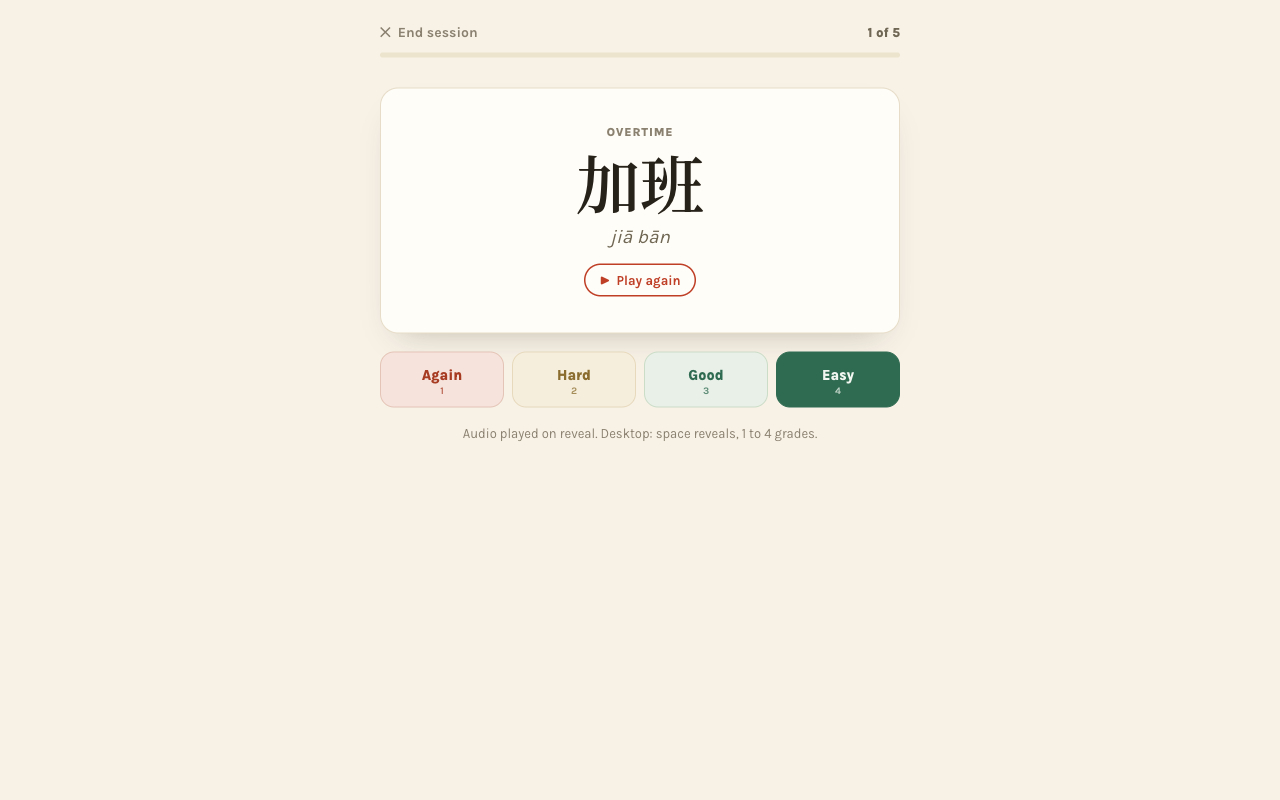
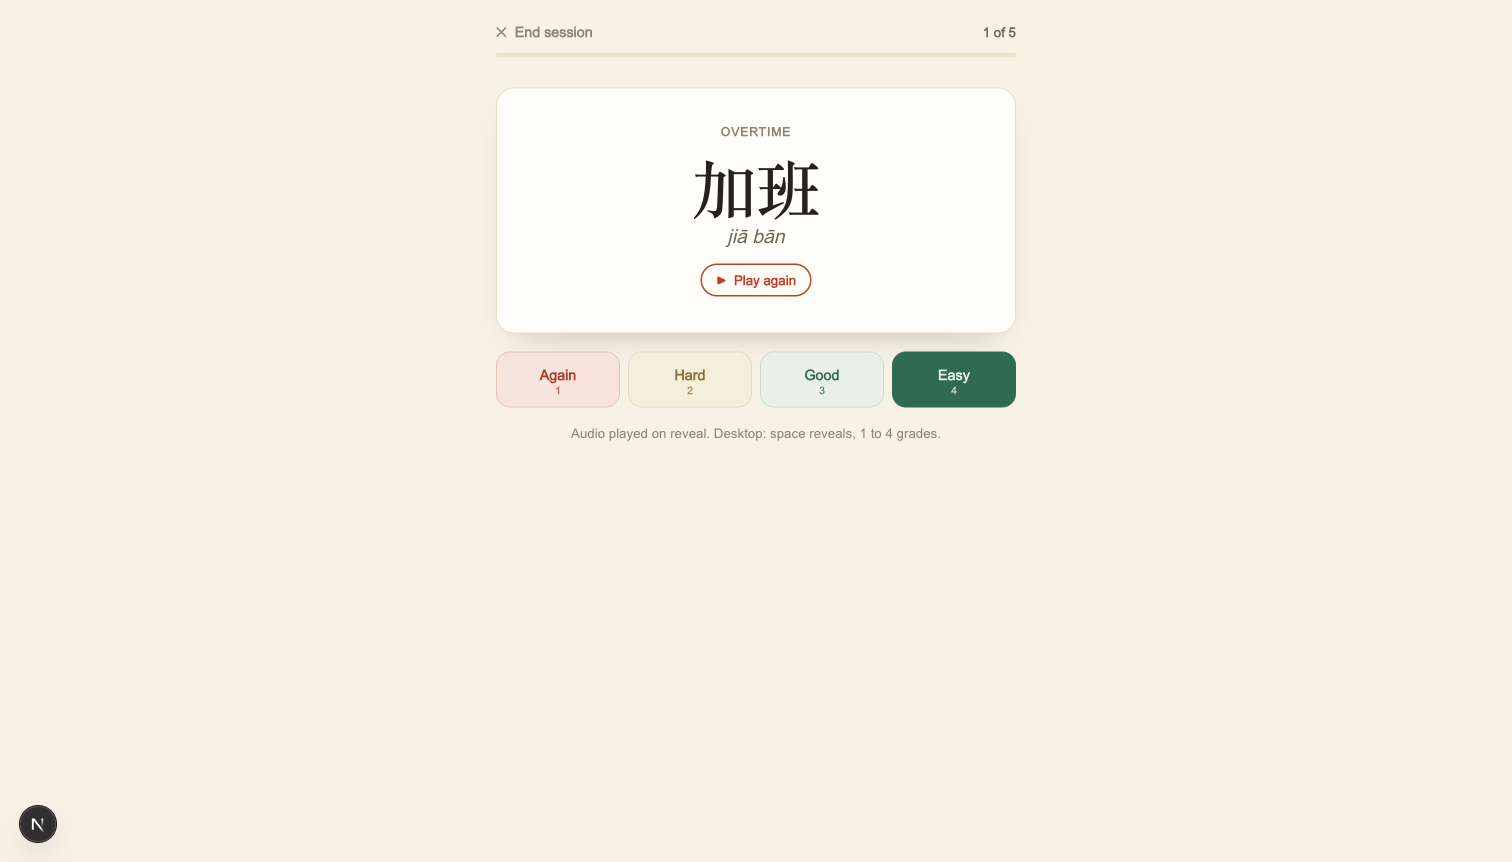
feat(web): personalized identity on today and chat; profile extraction in gemma mode; live demo link; fresh screenshots

diff --git a/apps/server/src/tutor.ts b/apps/server/src/tutor.ts
@@ -205,25 +205,34 @@ async function buildSystem(learnerId: bigint): Promise<string> {
 
 // Gemma ignores inline tools once the full persona is loaded (0/4 in live
 // tests with nudges top and bottom; short prompts hit 2/2). So gemma mode
-// captures vocab FunctionGemma-style: a tiny post-reply extraction call with
-// a short prompt, fired after the reply is already sent (zero user latency).
+// captures vocab AND profile facts FunctionGemma-style: a tiny post-reply
+// extraction call with a short prompt, fired after the reply is already
+// sent (zero user latency).
 async function gemmaExtractWords(learnerId: bigint, userText: string, reply: string) {
   try {
+    const learner = await prisma.learner.findUnique({ where: { id: learnerId } });
+    const profile = learner?.profileMd || PROFILE_TEMPLATE;
     const resp = await gemmaChat({
       model: GEMMA_MODEL,
       messages: [
         {
           role: "system",
           content:
-            "You extract vocabulary from a Mandarin tutoring exchange. If the tutor taught or translated any specific Mandarin word, call save_word for each one (max 2, pinyin with tone marks). If no word was taught, reply with just: none",
+            "You extract data from one Mandarin tutoring exchange. Two jobs:\n" +
+            "1. If the tutor taught or translated a specific Mandarin word, call save_word for each (max 2, pinyin with tone marks).\n" +
+            "2. If the LEARNER revealed facts about themselves (name, age, location, occupation, hobbies, interests, people or pets, native language, why they are learning, their level), call update_profile ONCE with the COMPLETE updated markdown: take the CURRENT PROFILE below and fill or amend only the fields the learner just revealed, keeping everything else exactly as is.\n" +
+            "If neither applies, reply with just: none\n\n" +
+            `CURRENT PROFILE:\n${profile}`,
         },
         { role: "user", content: `Learner: ${userText}\nTutor: ${reply}` },
       ],
-      tools: TOOLS.filter((t) => t.function.name === "save_word"),
-      max_tokens: 200,
+      tools: TOOLS.filter((t) => t.function.name === "save_word" || t.function.name === "update_profile"),
+      max_tokens: 900,
     } as ChatParams);
     for (const tc of resp.choices[0].message.tool_calls ?? []) {
-      if (tc.function.name === "save_word") await runTool(learnerId, "save_word", tc.function.arguments);
+      if (tc.function.name === "save_word" || tc.function.name === "update_profile") {
+        await runTool(learnerId, tc.function.name, tc.function.arguments);
+      }
     }
   } catch (e) {
     console.error("[gemma-extract]", e);

diff --git a/apps/web/app/today/page.tsx b/apps/web/app/today/page.tsx
@@ -11,6 +11,10 @@ type Me = {
   dueCount: number;
   totalWords: number;
   latest: { word: string; pinyin: string; gloss: string }[];
+  profile?: {
+    name: string | null; why: string | null; hobbies: string | null;
+    interests: string | null; occupation: string | null; location: string | null; level: string | null;
+  };
 };
 
 const GREETINGS: Array<[number, string, string]> = [
@@ -57,10 +61,32 @@ export default function Today() {
     <div className="shell">
       <Nav streak={me.streak} words={me.totalWords} />
 
-      <div className="rise" style={{ display: "flex", alignItems: "baseline", gap: 14, margin: "14px 0 22px", flexWrap: "wrap" }}>
-        <span className="zh" style={{ fontSize: 30 }}>{zhGreet}</span>
+      <div className="rise" style={{ display: "flex", alignItems: "baseline", gap: 14, margin: "14px 0 10px", flexWrap: "wrap" }}>
+        <span className="zh" style={{ fontSize: 30 }}>{zhGreet}{me.profile?.name ? `，${me.profile.name}` : ""}</span>
         <span style={{ fontSize: 16 }} className="muted">{enGreet}. {dateLine}.</span>
       </div>
+
+      {(() => {
+        const p = me.profile;
+        const world = [p?.location, p?.occupation, p?.hobbies, p?.interests].filter(Boolean).join(" · ");
+        if (p?.why)
+          return (
+            <div className="rise r1" style={{ display: "flex", alignItems: "baseline", gap: 12, margin: "0 0 22px", flexWrap: "wrap" }}>
+              <span className="kicker red" style={{ marginBottom: 0 }}>Your why</span>
+              <span className="serif" style={{ fontSize: 20, fontStyle: "italic", color: "var(--body)" }}>{p.why}</span>
+              {p.level && <span className="pill">{p.level}</span>}
+            </div>
+          );
+        if (world)
+          return (
+            <div className="rise r1" style={{ display: "flex", alignItems: "baseline", gap: 12, margin: "0 0 22px", flexWrap: "wrap" }}>
+              <span className="kicker red" style={{ marginBottom: 0 }}>Your world</span>
+              <span className="serif" style={{ fontSize: 19, fontStyle: "italic", color: "var(--body)" }}>{world}</span>
+              {p?.level && <span className="pill">{p.level}</span>}
+            </div>
+          );
+        return <div style={{ marginBottom: 12 }} />;
+      })()}
 
       <div className="stat-grid cascade">
         {me.dueCount > 0 ? (

diff --git a/apps/web/app/chat/page.tsx b/apps/web/app/chat/page.tsx
@@ -63,9 +63,13 @@ export default function Chat() {
   const [busy, setBusy] = useState(false);
   const [wall, setWall] = useState<string | null>(null);
   const [unauthed, setUnauthed] = useState(false);
+  const [who, setWho] = useState<{ why: string | null; level: string | null; name: string | null; hobbies?: string | null; interests?: string | null; location?: string | null } | null>(null);
   const endRef = useRef<HTMLDivElement>(null);
 
   useEffect(() => {
+    apiGet<{ profile?: { why: string | null; level: string | null; name: string | null; hobbies?: string | null; interests?: string | null; location?: string | null } }>("/api/me")
+      .then((d) => d.profile && setWho(d.profile))
+      .catch(() => {});
     apiGet<{ messages: Msg[] }>("/api/chat/history")
       .then((d) =>
         setMsgs(
@@ -113,6 +117,17 @@ export default function Chat() {
   return (
     <div className="shell narrow" style={{ display: "flex", flexDirection: "column", minHeight: "100dvh", paddingBottom: 90 }}>
       <Nav />
+      {(() => {
+        const line = who?.why ?? [who?.location, who?.hobbies, who?.interests].filter(Boolean).join(" · ");
+        if (!line) return null;
+        return (
+          <div className="rise" style={{ display: "flex", alignItems: "center", gap: 10, padding: "2px 0 12px", flexWrap: "wrap" }}>
+            <span className="zh" style={{ fontSize: 15, color: "var(--red)" }}>{who?.why ? "为什么" : "你的世界"}</span>
+            <span style={{ fontSize: 13, fontStyle: "italic" }} className="muted">{line}</span>
+            {who?.level && <span className="pill" style={{ fontSize: 11, padding: "3px 10px" }}>{who.level}</span>}
+          </div>
+        );
+      })()}
       <div style={{ flex: 1, display: "flex", flexDirection: "column", gap: 10, paddingBottom: 14 }}>
         {msgs.length === 0 && (
           <div className="card pop" style={{ textAlign: "center", padding: "32px 26px", margin: "24px auto 0", maxWidth: 420, display: "flex", flexDirection: "column", gap: 14, alignItems: "center" }}>

diff --git a/apps/server/src/api.ts b/apps/server/src/api.ts
@@ -149,6 +149,29 @@ api.get("/api/link/status", h(async (req, res) => {
   res.json({ linked: false });
 }));
 
+/** Pull the human bits out of profileMd so the UI can show who this is for. */
+function parseProfile(md: string) {
+  // [ \t]* not \s*: \s eats the newline on EMPTY fields and captures the
+  // NEXT template line as the value (live bug 2026-08-22).
+  const field = (key: string) => {
+    const m = md.match(new RegExp(`^- ${key.replace("/", "\\/")}:[ \\t]*(.+)$`, "m"));
+    const v = m?.[1]?.trim();
+    return v && !v.startsWith("-") ? v : null;
+  };
+  const levelRaw = md.match(/^- Estimate:[ \t]*(.+?)(?:\.|\s+Confidence)/m)?.[1]?.trim() || null;
+  // template placeholder is not a level — show nothing until placed
+  const level = levelRaw && !/unknown/i.test(levelRaw) ? levelRaw : null;
+  return {
+    name: field("name"),
+    why: field("why learning"),
+    hobbies: field("hobbies"),
+    interests: field("interests"),
+    occupation: field("occupation"),
+    location: field("location"),
+    level,
+  };
+}
+
 api.get("/api/me", h(async (req, res) => {
   const id = await auth(req);
   if (!id) return void res.status(401).json({ error: "unauthenticated" });
@@ -162,6 +185,7 @@ api.get("/api/me", h(async (req, res) => {
     dueCount: due,
     totalWords: vocab.length,
     latest: vocab.slice(0, 8).map((v) => ({ word: v.word, pinyin: v.pinyin, gloss: v.gloss })),
+    profile: parseProfile(learner?.profileMd ?? ""),
   });
 }));
 

diff --git a/README.md b/README.md
@@ -8,6 +8,13 @@ runs on a laptop.
 Built for the Build with Gemini Hackathon 2026, Singapore. Track: Best Use
 of Gemma.
 
+**Try it live: https://cow-sorry-chrome-crossing.trycloudflare.com**
+
+That link is a Cloudflare tunnel straight to the laptop where Gemma 4 26B
+is running. You are talking to a model on a MacBook, not a cloud. Press
+"Just play on the web", no signup. If the link does not answer, the laptop
+is asleep, which is the honest failure mode of an on-device product.
+
 ![Landing page. The tutor texts a preview conversation, bubble by bubble.](docs/shots/shot-landing.png)
 
 ## Why full Gemma
